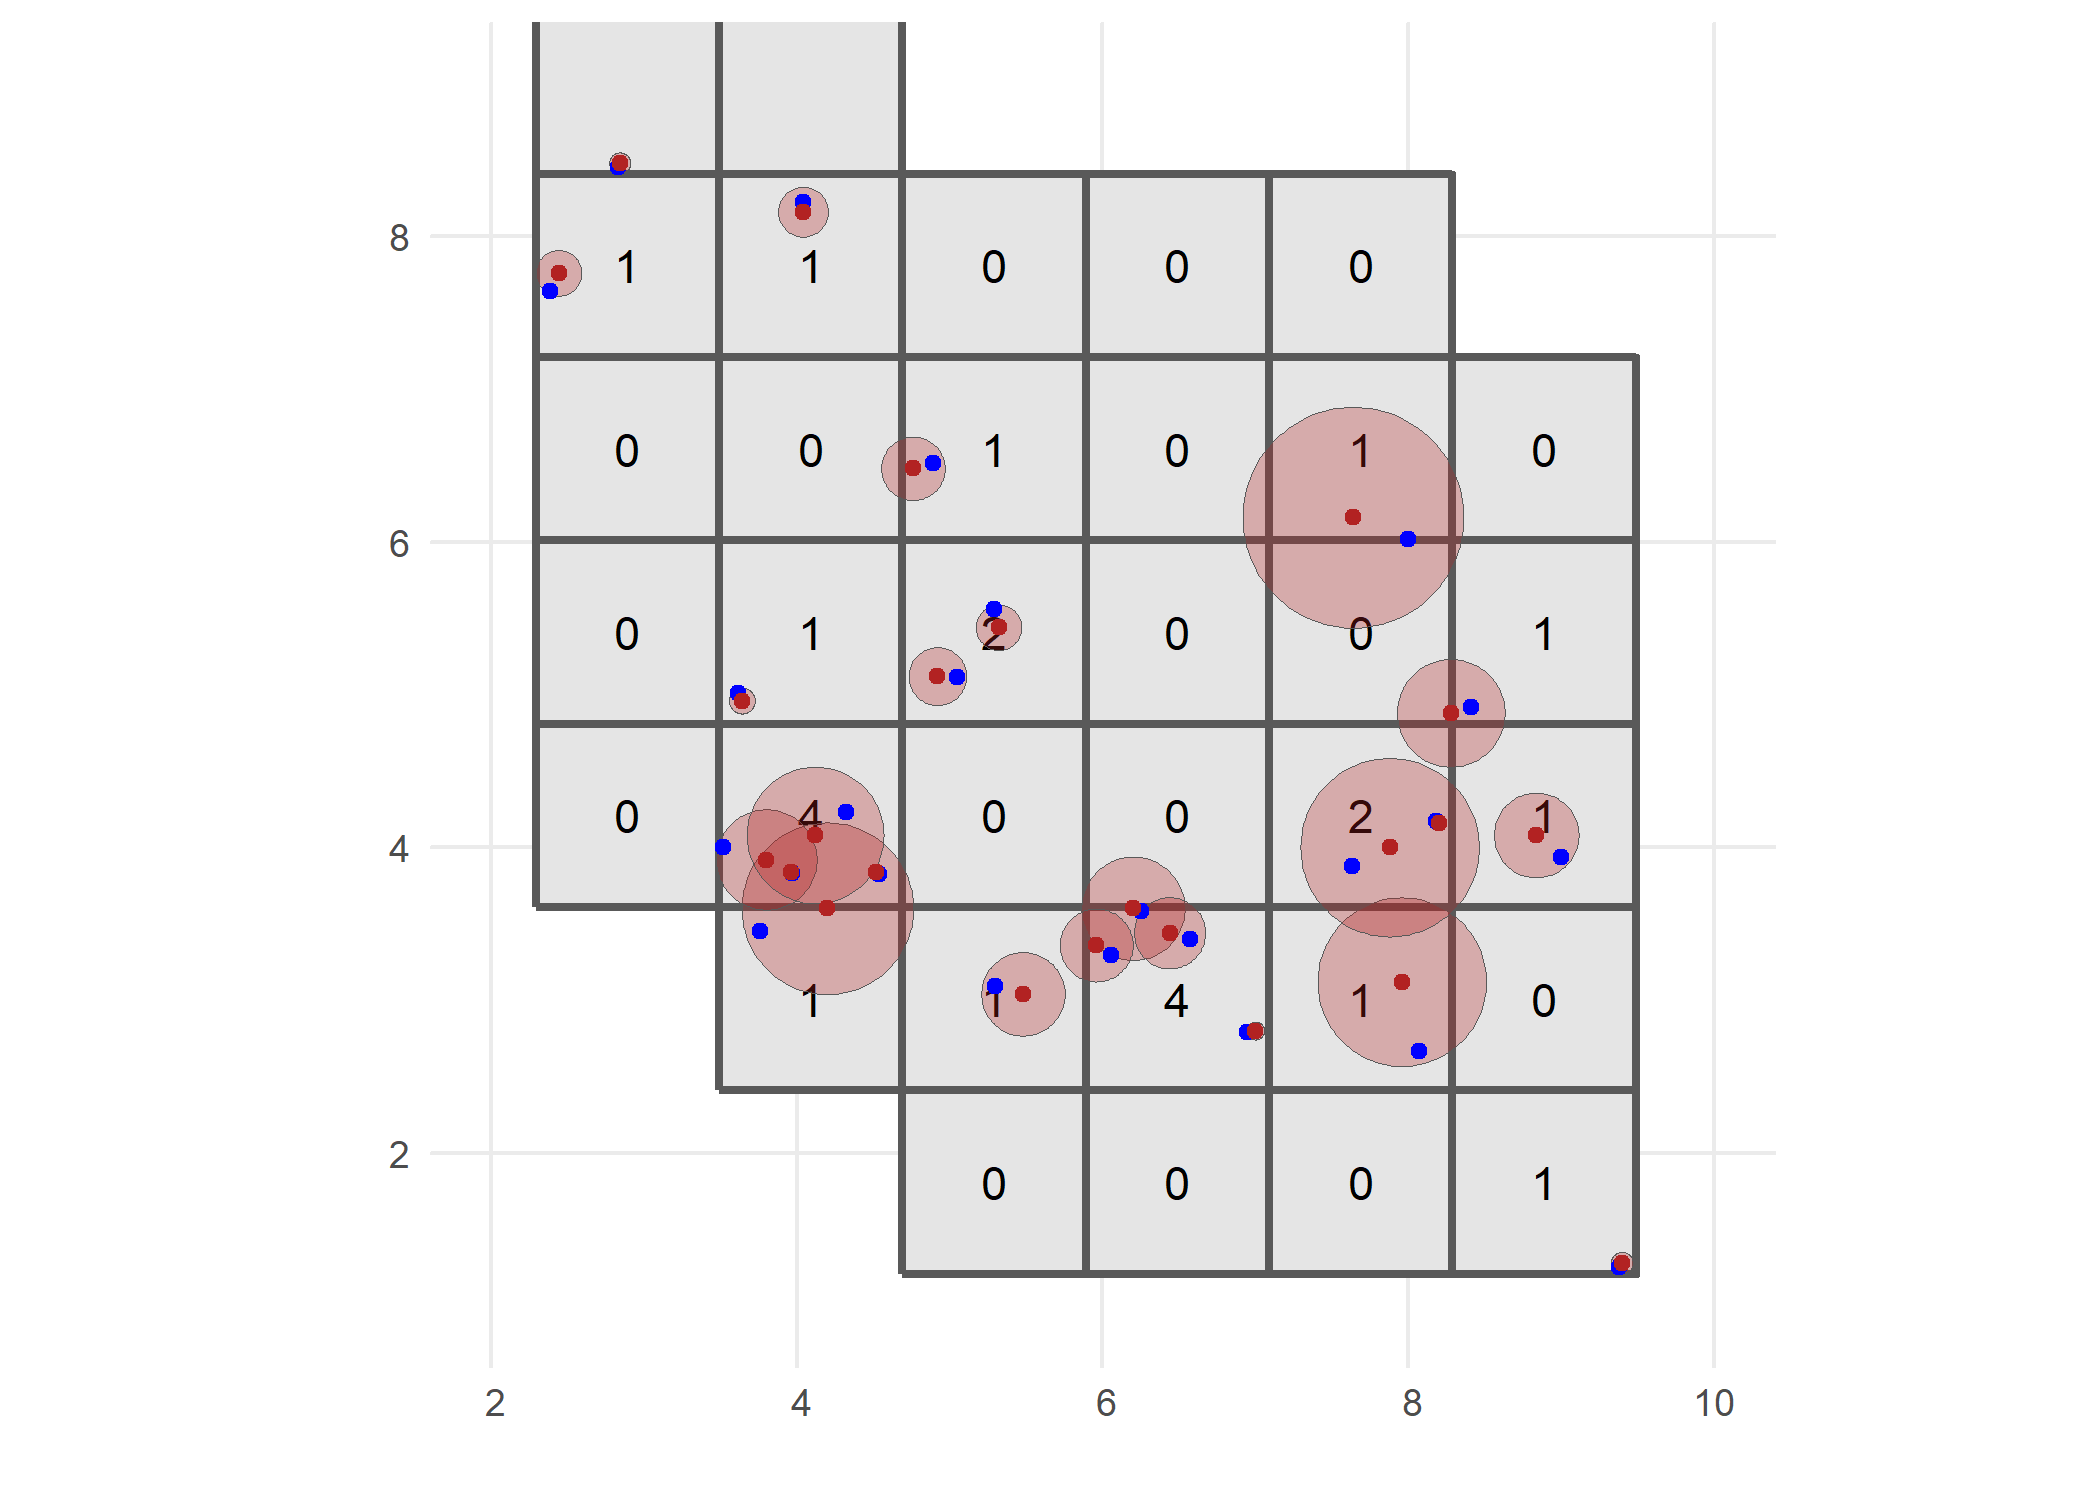
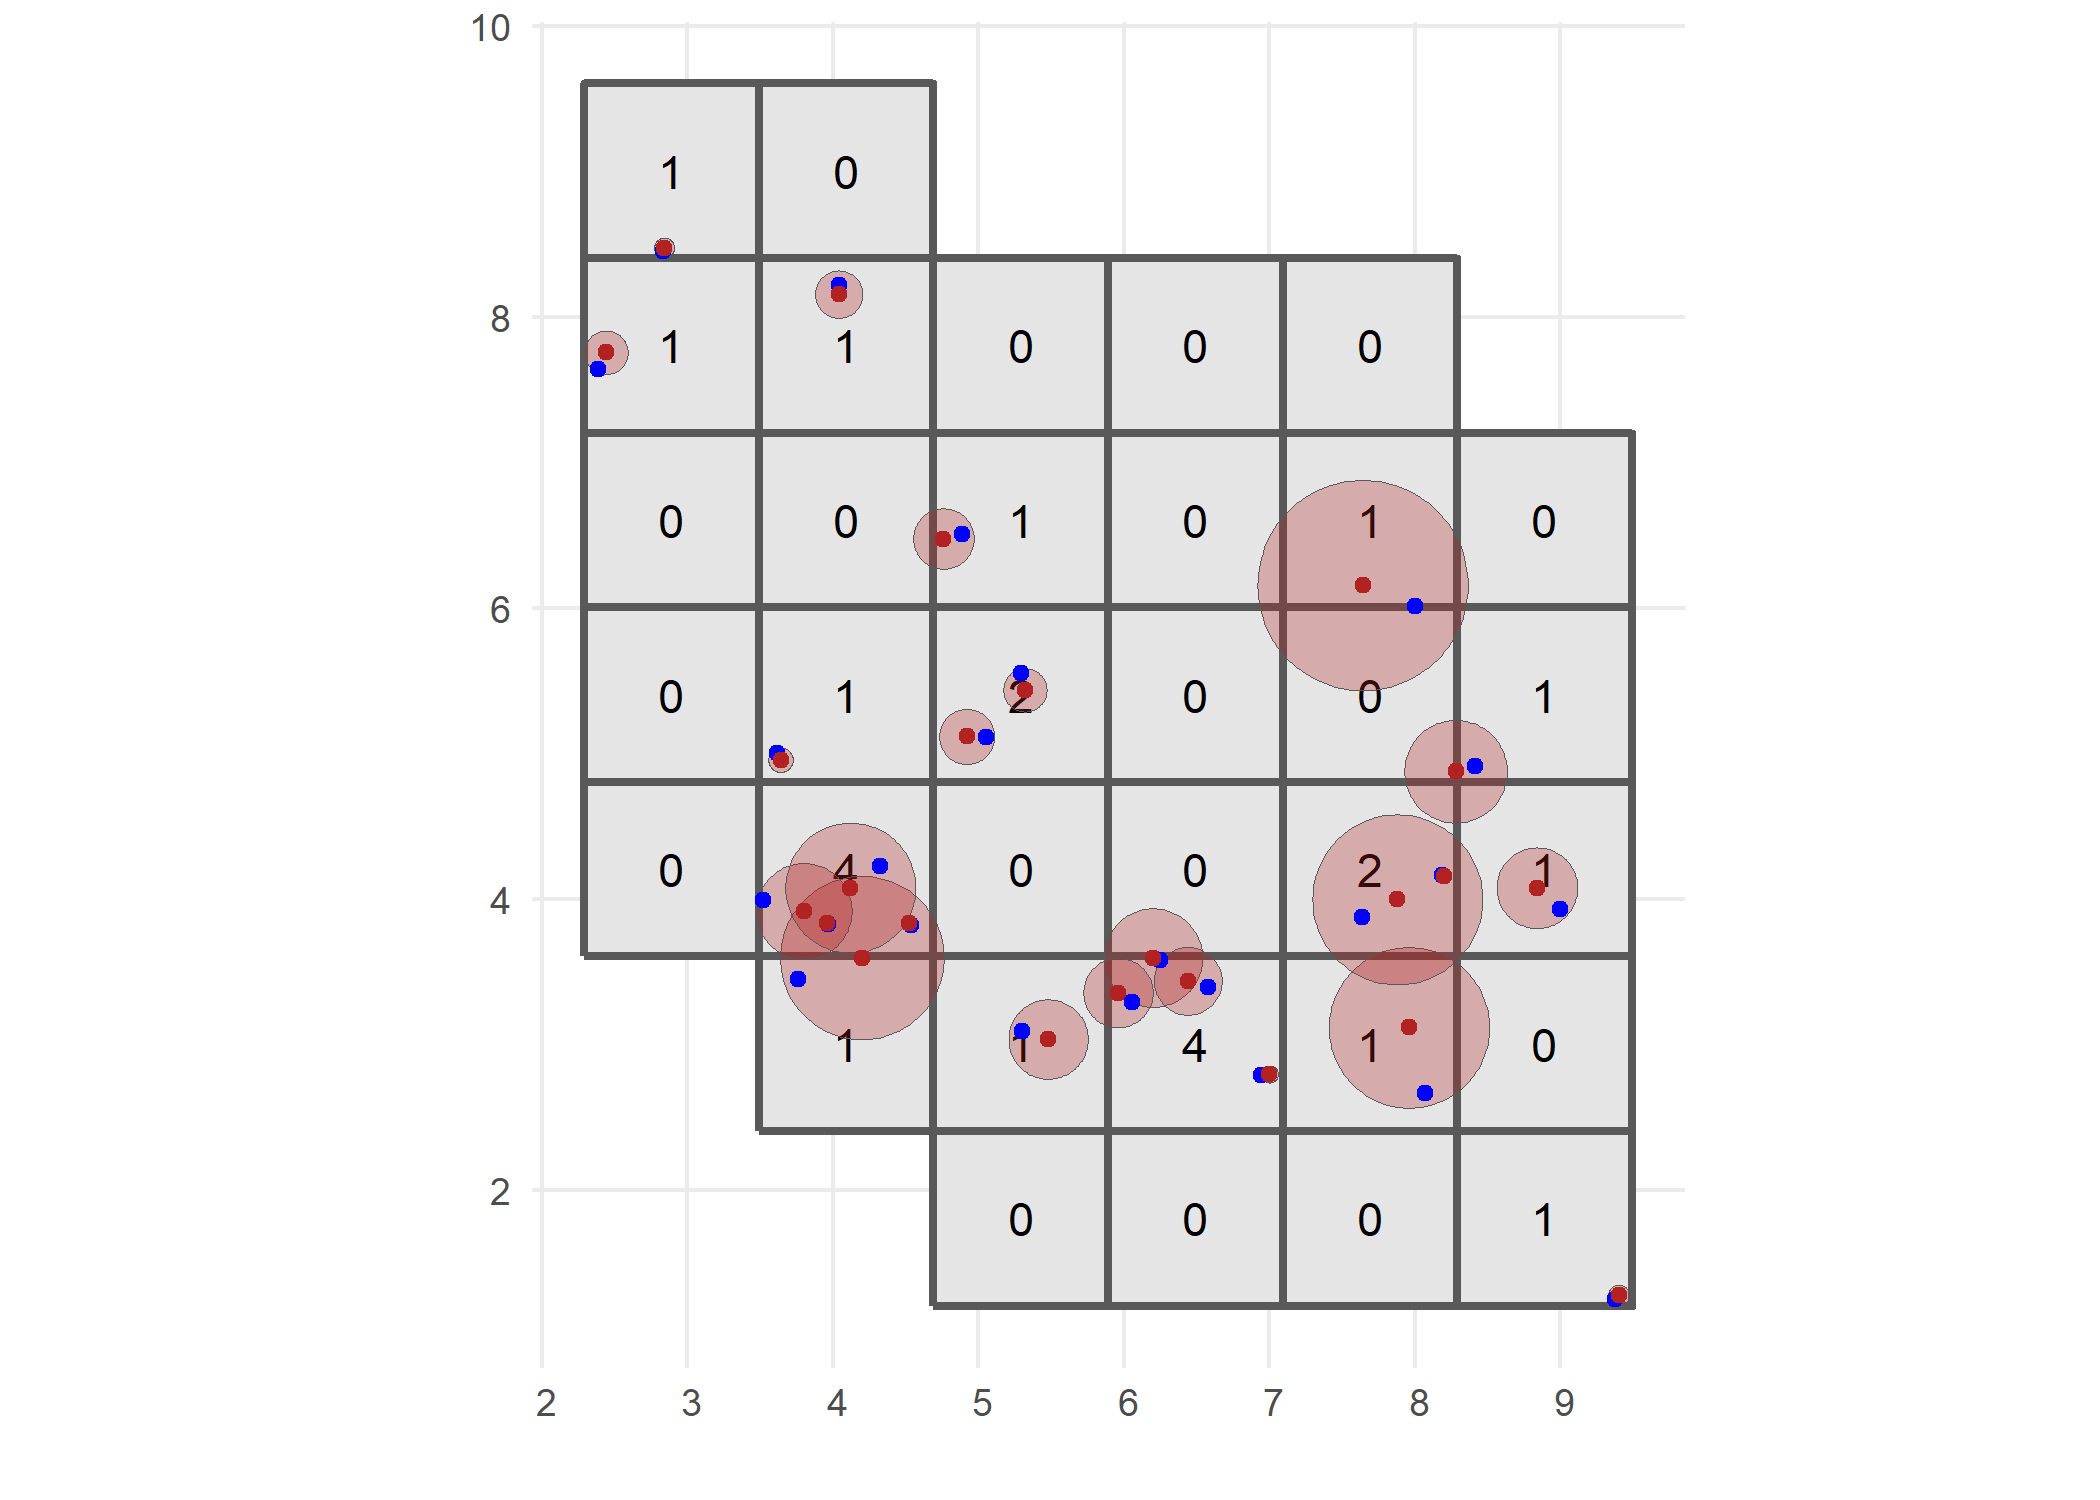
readme small letters figures

diff --git a/README.md b/README.md
@@ -74,7 +74,7 @@ ggplot() +
   theme_minimal()
 ```
 
-<img src="man/figures/README-polygon-1.png" width="80%" />
+<img src="man/figures/readme-polygon-1.png" width="80%" />
 
 ### Occurrence process
 
@@ -102,7 +102,7 @@ ggplot() +
   theme_minimal()
 ```
 
-<img src="man/figures/README-simulate-occurrences-1.png" width="80%" />
+<img src="man/figures/readme-simulate-occurrences-1.png" width="80%" />
 
 ### Detection process
 
@@ -126,7 +126,7 @@ ggplot() +
   theme_minimal()
 ```
 
-<img src="man/figures/README-detect-occurrences-1.png" width="80%" />
+<img src="man/figures/readme-detect-occurrences-1.png" width="80%" />
 
 We select the detected occurrences and add an uncertainty to these
 observations. This can be done using the `add_coordinate_uncertainty()`
@@ -158,7 +158,7 @@ ggplot() +
   theme_minimal()
 ```
 
-<img src="man/figures/README-uncertainty-occurrences-1.png" width="80%" />
+<img src="man/figures/readme-uncertainty-occurrences-1.png" width="80%" />
 
 ### Grid designation process
 
@@ -206,15 +206,11 @@ ggplot() +
           fill = alpha("firebrick", 0.3)) +
   geom_sf(data = sampled_points, colour = "blue") +
   geom_sf(data = observations_df, colour = "firebrick") +
-  scale_x_continuous(limits = c(st_bbox(polygon)$xmin, st_bbox(polygon)$xmax)) +
-  scale_y_continuous(limits = c(st_bbox(polygon)$ymin, st_bbox(polygon)$ymax)) +
   labs(x = "", y = "", fill = "n") +
   theme_minimal()
-#> Warning: Removed 2 rows containing missing values or values outside the scale range
-#> (`geom_text()`).
 ```
 
-<img src="man/figures/README-grid-designation-1.png" width="80%" />
+<img src="man/figures/readme-grid-designation-1.png" width="80%" />
 
 The output gives the number of observations per grid cell and minimal
 coordinate uncertainty per grid cell.
@@ -225,13 +221,9 @@ ggplot() +
   geom_sf(data = occurrence_cube_df, aes(fill = min_coord_uncertainty),
           alpha = 0.5, linewidth = 1) +
   geom_sf_text(data = occurrence_cube_df, aes(label = n)) +
-  scale_x_continuous(limits = c(st_bbox(polygon)$xmin, st_bbox(polygon)$xmax)) +
-  scale_y_continuous(limits = c(st_bbox(polygon)$ymin, st_bbox(polygon)$ymax)) +
   scale_fill_continuous(type = "viridis") +
   labs(x = "", y = "") +
   theme_minimal()
-#> Warning: Removed 2 rows containing missing values or values outside the scale range
-#> (`geom_text()`).
 ```
 
-<img src="man/figures/README-visualise-designation-1.png" width="80%" />
+<img src="man/figures/readme-visualise-designation-1.png" width="80%" />
